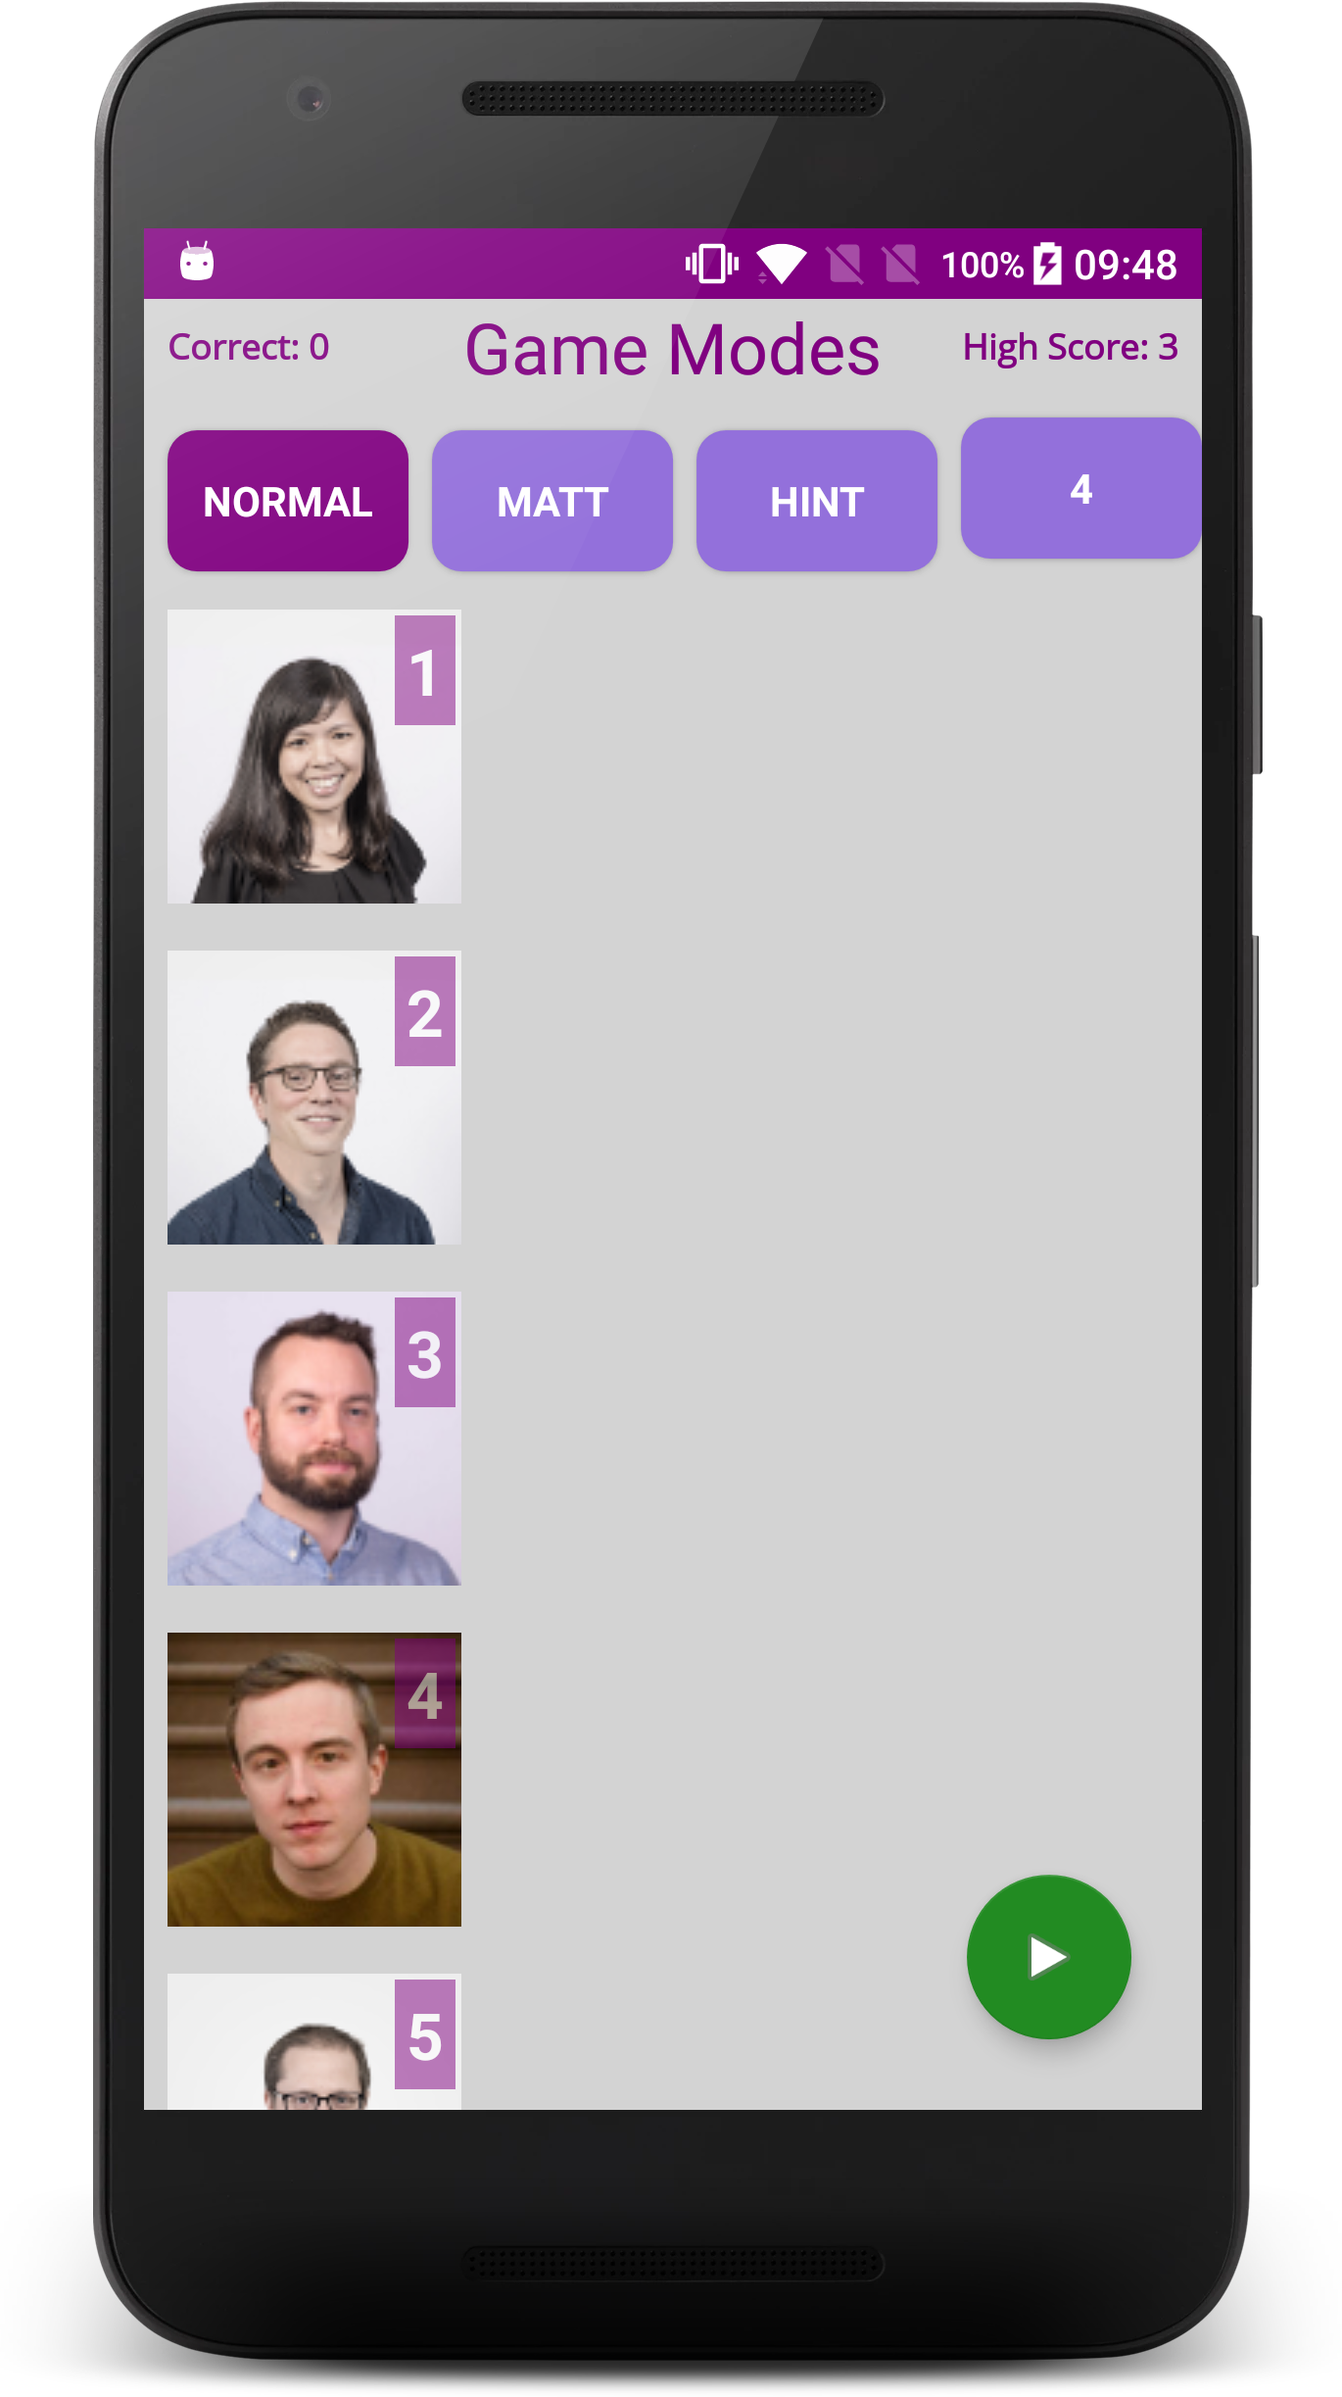
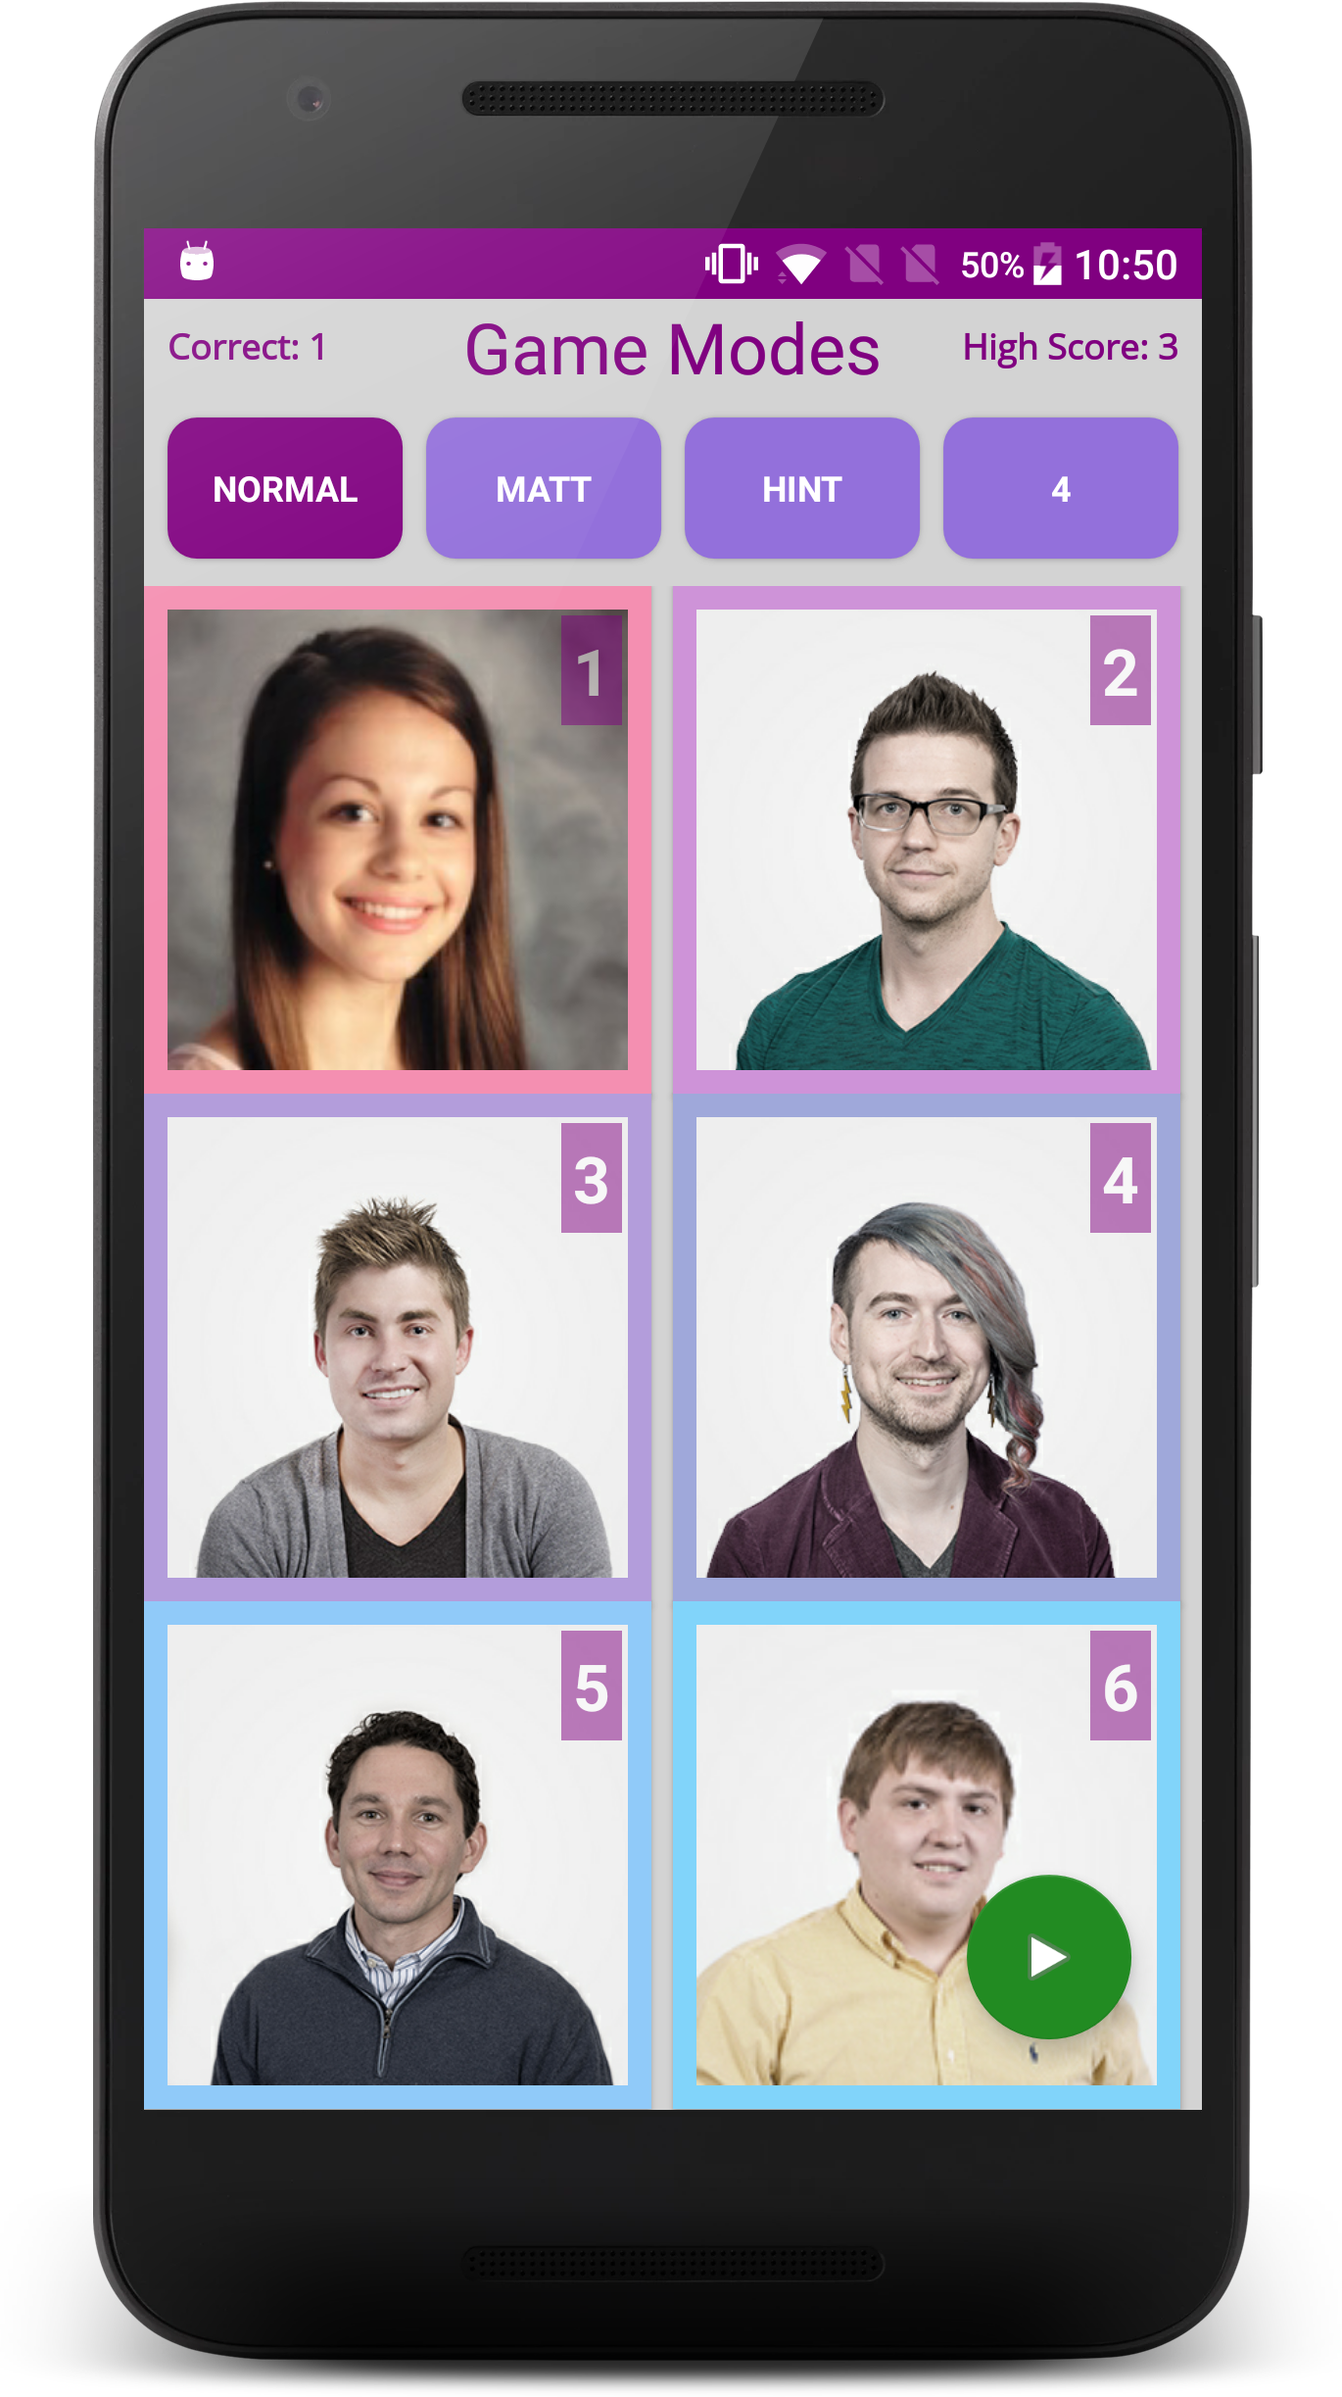
MyNameGame - Added screen orientation change, fixed spancount for RecyclerView, updated readme and pics

diff --git a/app/src/main/java/wt/cr/com/mynamegame/infrastructure/ui/home/HomeActivity.kt b/app/src/main/java/wt/cr/com/mynamegame/infrastructure/ui/home/HomeActivity.kt
@@ -1,25 +1,23 @@
 package wt.cr.com.mynamegame.infrastructure.ui.home
 
-import android.app.PendingIntent
-import android.app.TaskStackBuilder
 import android.arch.lifecycle.Observer
 import android.arch.lifecycle.ViewModelProviders
 import android.content.Context
 import android.content.Intent
 import android.databinding.DataBindingUtil
 import android.os.Bundle
-import android.support.v4.app.NotificationCompat
 import android.support.v7.widget.DefaultItemAnimator
-import android.support.v7.widget.LinearLayoutManager
+import android.support.v7.widget.GridLayoutManager
 import com.xwray.groupie.GroupAdapter
 import wt.cr.com.mynamegame.infrastructure.ui.BaseActivity.BaseActivity
 import com.xwray.groupie.Section
 import com.xwray.groupie.ViewHolder
 import kotlinx.android.synthetic.main.home_activity.*
+import timber.log.Timber
 import wt.cr.com.mynamegame.R
 import wt.cr.com.mynamegame.databinding.HomeActivityBinding
-import wt.cr.com.mynamegame.infrastructure.network.firestore.Firestore.Companion.addExampleUsers
 import wt.cr.com.mynamegame.infrastructure.ui.common.NoConnectionViewModel
+import wt.cr.com.mynamegame.infrastructure.ui.home.cards.UpdatableItem
 import wt.cr.com.mynamegame.infrastructure.ui.stats.StatsActivity
 
 class HomeActivity : BaseActivity(){
@@ -31,9 +29,13 @@ class HomeActivity : BaseActivity(){
     }
 
     private val personGroupAdapter = GroupAdapter<ViewHolder>()
-    private val peopleSection = Section()
+
+    private lateinit var groupLayoutManager: GridLayoutManager
+    private lateinit var rainbow200: IntArray
+    private var peopleSection  = Section()
+    private var updatingGroup    = Section()
+    private var updatableItems = ArrayList<UpdatableItem>()
     private var scoreSection = Section()
-    private var statSection = Section()
     private var errorSection = Section()
 
     private val homeActivityViewModel : HomeActivityViewModel by lazy {
@@ -47,9 +49,21 @@ class HomeActivity : BaseActivity(){
 
     override fun onCreate(savedInstanceState: Bundle?) {
         super.onCreate(savedInstanceState)
+        rainbow200 = resources.getIntArray(R.array.rainbow_200)
+
+
 
         DataBindingUtil.setContentView<HomeActivityBinding>(this, R.layout.home_activity).apply {
             activityViewModel = homeActivityViewModel
+
+        }
+
+        personGroupAdapter.apply {
+            spanCount = 6
+        }
+
+        groupLayoutManager = GridLayoutManager(this, personGroupAdapter.spanCount).apply {
+            spanSizeLookup = personGroupAdapter.spanSizeLookup
         }
 
         homeActivityViewModel.normalErrorAction.observe(this){it ->
@@ -58,8 +72,27 @@ class HomeActivity : BaseActivity(){
 
         homeActivityViewModel.loadPeopleAction.observe(this, Observer {
             personGroupAdapter.clear()
+
+            val width = this.resources.displayMetrics.widthPixels
+            val height = this.resources.displayMetrics.heightPixels
+
+            val rv_height = rv_multi_item.layoutParams.height
+            val rv_width = rv_multi_item.layoutParams.width
+
+            Timber.d("${rv_height} and ${rv_width} ")
+
+
+            peopleSection = Section()
+            updatingGroup = Section()
+            updatableItems.clear()
+            var i = 1
+            it?.forEach {pvm ->
+                updatableItems.add(UpdatableItem(rainbow200[i], i, pvm.url.get()?:""))
+                i++
+            }
+            updatingGroup.update(updatableItems)
+            peopleSection.add(updatingGroup)
             personGroupAdapter.add(peopleSection)
-            it?.let{ personViewModels -> peopleSection.update(personViewModels) }
         })
 
         homeActivityViewModel.loadScoreAction.observe(this, Observer {
@@ -80,12 +113,14 @@ class HomeActivity : BaseActivity(){
             startActivity(StatsActivity.newIntent(this))
         }
         setupAdapter()
+
+
     }
 
     private fun setupAdapter(){
-        rv_multi_item.layoutManager = LinearLayoutManager(this@HomeActivity)
+        rv_multi_item.layoutManager = groupLayoutManager
         rv_multi_item.itemAnimator = DefaultItemAnimator()
         rv_multi_item.adapter = personGroupAdapter
-        personGroupAdapter.add(peopleSection)
+        //personGroupAdapter.add(peopleSection)
     }
 }

diff --git a/app/src/main/java/wt/cr/com/mynamegame/infrastructure/ui/home/HomeActivityViewModel.kt b/app/src/main/java/wt/cr/com/mynamegame/infrastructure/ui/home/HomeActivityViewModel.kt
@@ -50,7 +50,6 @@ class HomeActivityViewModel(app: Application) : AndroidViewModel(app) {
     val lifetimeIncorrect      = MutableLiveData<Int>()
     val hasUserGuessed         = MutableLiveData<Boolean>()
     var peopleViewModelList:      MutableList<PersonViewModel> = mutableListOf()
-    var peopleViewModelListFresh: MutableList<PersonViewModel> = mutableListOf()
 
     private var profiles: MutableList<MyModel.Person> = mutableListOf()
     //Observables
@@ -116,8 +115,8 @@ class HomeActivityViewModel(app: Application) : AndroidViewModel(app) {
     }
 
     fun onBottomBarClick(index: Int){
-        val userId = peopleViewModelListFresh[index].id.get()
-        val mViewModel = peopleViewModelList.first{ it.id.get() == userId }
+        val mViewModel = peopleViewModelList[index]
+        //val mViewModel = peopleViewModelList.first{ it.id.get() == userId }
         onImageClick(mViewModel)
     }
 
@@ -253,8 +252,7 @@ class HomeActivityViewModel(app: Application) : AndroidViewModel(app) {
         if(peopleViewModelList.size < 2){
             resetGame()
         }else{
-            var index = peopleViewModelListFresh.indexOf(person)
-            showHideBottomButtons(index)
+            showHideBottomButtons(peopleViewModelList.size - 1)
             peopleViewModelList.remove(person)
             loadPeopleAction.postValue(peopleViewModelList)
         }
@@ -321,7 +319,6 @@ class HomeActivityViewModel(app: Application) : AndroidViewModel(app) {
                 .take(6)
                 .map { PersonViewModel("${i++}", it, this::onImageClick) }
                 .toList())
-        setFresh()
         setQuestionText()
         loadPeopleAction.postValue(peopleViewModelList)
     }
@@ -340,21 +337,16 @@ class HomeActivityViewModel(app: Application) : AndroidViewModel(app) {
                 .map {PersonViewModel("${i++}", it, this::onImageClick)}
                 .take(6)
                 .toList())
-        setFresh()
         setQuestionText()
         loadPeopleAction.postValue(peopleViewModelList)
     }
 
     fun hintMode(){
         selectedGameMode.set(CurrentGameMode.HINT)
-        setFresh()
-        launch(UI) {
-        }
     }
 
     fun fourMode(){
         selectedGameMode.set(CurrentGameMode.CUSTOM)
-        setFresh()
     }
 
     private fun errorMode(error: String){
@@ -363,10 +355,6 @@ class HomeActivityViewModel(app: Application) : AndroidViewModel(app) {
         apiErrorAction.actionOccurred(error)
     }
 
-    private fun setFresh(){
-        peopleViewModelListFresh.clear()
-        peopleViewModelListFresh.addAll(peopleViewModelList)
-    }
     /**
      * GAME MODES
      */

diff --git a/app/src/main/java/wt/cr/com/mynamegame/infrastructure/ui/home/cards/CardItem.kt b/app/src/main/java/wt/cr/com/mynamegame/infrastructure/ui/home/cards/CardItem.kt
@@ -1,0 +1,42 @@
+package wt.cr.com.mynamegame.infrastructure.ui.home.cards
+
+import android.support.annotation.ColorInt
+import com.squareup.picasso.Picasso
+
+import com.xwray.groupie.kotlinandroidextensions.Item
+import com.xwray.groupie.kotlinandroidextensions.ViewHolder
+import kotlinx.android.synthetic.main.item_card.*
+
+import wt.cr.com.mynamegame.R
+import wt.cr.com.mynamegame.databinding.ItemCardBinding
+import wt.cr.com.mynamegame.infrastructure.di.WTServiceLocator
+
+val INSET_TYPE_KEY = "inset_type"
+val INSET = "inset"
+open class CardItem (@ColorInt private val colorRes: Int,
+                     val text: CharSequence? = "",
+                     val url: String? = "") : Item() {
+    init {
+        extras[INSET_TYPE_KEY] = INSET
+    }
+
+    override fun getLayout() = R.layout.item_card
+
+    override fun bind(viewHolder: ViewHolder, position: Int) {
+        viewHolder.root.setBackgroundColor(colorRes)
+
+        viewHolder.layout_one_item.minWidth = 480
+        viewHolder.layout_one_item.minHeight = 480
+
+        viewHolder.text.text = text
+        viewHolder.tv_number.text = text
+
+        WTServiceLocator.resolve(Picasso::class.java)
+                .load(url)
+                .error(R.drawable.baseline_error_black_48)
+                .placeholder(R.drawable.progress_animation)
+                .resize(470,470)
+                .centerCrop()
+                .into(viewHolder.iv_person)
+    }
+}

diff --git a/app/src/main/java/wt/cr/com/mynamegame/infrastructure/ui/home/PersonViewModel.kt b/app/src/main/java/wt/cr/com/mynamegame/infrastructure/ui/home/PersonViewModel.kt
@@ -7,7 +7,7 @@ import com.xwray.groupie.databinding.BindableItem
 import wt.cr.com.mynamegame.domain.model.MyModel
 import wt.cr.com.mynamegame.infrastructure.ui.BaseBindableViewModel
 
-class PersonViewModel(private val numerino: String, private val person: MyModel.Person, val personClickListener: (PersonViewModel) -> Unit): BaseBindableViewModel(){
+class PersonViewModel(numerino: String, person: MyModel.Person, val personClickListener: (PersonViewModel) -> Unit): BaseBindableViewModel(){
     //observables
     val number = ObservableField<String>(numerino)
     val id = ObservableField<String>(person.id)
@@ -19,6 +19,10 @@ class PersonViewModel(private val numerino: String, private val person: MyModel.
 
     override fun getItemFactory(): (BaseBindableViewModel) -> BindableItem<ViewDataBinding> {
         return { it -> PersonItem((it as PersonViewModel)) }
+    }
+
+    override fun getSpanSize(spanCount: Int, position: Int): Int {
+        return spanCount / 3
     }
 
     fun onClick() {

diff --git a/app/src/main/java/wt/cr/com/mynamegame/infrastructure/network/firestore/Firestore.kt b/app/src/main/java/wt/cr/com/mynamegame/infrastructure/network/firestore/Firestore.kt
@@ -18,14 +18,14 @@ class Firestore {
         }
 
         fun addExampleUsers(){
-            val player = MyModel.Player("Curry", "Amsterdam, NVM", 2, "Charlie Brown")
+            val player = MyModel.Player("Curry", "Zamsterdam", 2, "MyNameGame can be huge")
             val user = createUser(player)
             addAPlayer(player)
             val player2 = MyModel.Player("Norman", "BRUNO MARS",1, "The Fighter and the kid")
             val user2 = createUser(player2)
             addAPlayer(player2)
 
-            val player3 = MyModel.Player("Johnny Walker", "123 12th street",3, "Morning Rituals")
+            val player3 = MyModel.Player("Johnny Walker", "123 12th street",3, "Read, study, learn")
             val user4 = createUser(player2)
             addAPlayer(player2)
         }

diff --git a/app/src/main/java/wt/cr/com/mynamegame/infrastructure/ui/home/cards/SmallCardItem.kt b/app/src/main/java/wt/cr/com/mynamegame/infrastructure/ui/home/cards/SmallCardItem.kt
@@ -1,0 +1,14 @@
+package wt.cr.com.mynamegame.infrastructure.ui.home.cards
+
+import android.support.annotation.ColorInt
+
+open class SmallCardItem : CardItem {
+
+    constructor(@ColorInt colorRes: Int) : super(colorRes) {}
+
+    constructor(@ColorInt colorRes: Int, text: CharSequence, url: String) : super(colorRes, text, url) {}
+
+    override fun getSpanSize(spanCount: Int, position: Int): Int {
+        return spanCount / 2
+    }
+}

diff --git a/app/src/main/java/wt/cr/com/mynamegame/infrastructure/ui/home/cards/UpdatableItem.kt b/app/src/main/java/wt/cr/com/mynamegame/infrastructure/ui/home/cards/UpdatableItem.kt
@@ -1,0 +1,12 @@
+package wt.cr.com.mynamegame.infrastructure.ui.home.cards
+
+import android.support.annotation.ColorRes
+
+class UpdatableItem(@ColorRes colorRes: Int,
+                    private val index: Int,
+                    private val theUrl: String) : SmallCardItem(colorRes, index.toString(), theUrl) {
+
+    override fun getId(): Long {
+        return index.toLong()
+    }
+}

diff --git a/app/src/main/java/wt/cr/com/mynamegame/infrastructure/ui/BaseBindableViewModel.kt b/app/src/main/java/wt/cr/com/mynamegame/infrastructure/ui/BaseBindableViewModel.kt
@@ -26,6 +26,10 @@ abstract class BaseBindableViewModel : Group {
         }
     }
 
+    open fun getSpanSize(spanCount: Int, position: Int): Int {
+        return spanCount / 3
+    }
+
     override fun getItemCount(): Int {
         return delegateItem.itemCount
     }

diff --git a/README.md b/README.md
@@ -1,9 +1,24 @@
 # MyNameGame
 
-The original mission was written in Java and didn't use databinding so for this interview project I decided to start from scratch and use Kotlin and the Android Support Library with MVVM architecture.
+This is my version of the name game. The original template was written in Java and was over two years old.
 
-## Your mission
+![](screencast.gif)
 
+## Outside Perspective
+1. Turn on the game and press start (Green arrow)
+2. Make a guess who you think matches the name at the bottom
+3. Change modes at the top
+4. View worldwide stats by clicking "VIEW HIGH SCORES" after successfully guessing someone
+5. Insert your stats into the worldwide database 
+
+## Inside Perspective
+1. Uses Retrofit to call endpoint that returns JSON and it's formatted into POKOs (plain old kotlin objects)
+2. Place six random people on the board using Groupie and RecyclerView
+3. Listen for event clicks on the images or bottom group of buttons
+4. Keep track of user's score via shared preferences
+5. Keep track of worldwide scores via Firestore and allow users to opt-in
+
+## Your mission //START// (criteria given)
 Present the user with six faces and ask them to identify the listed name. To spruce things up, implement a few features of your choice.
 
 1. Stat tracking. How many correct / incorrect attempts did the user make? How long does it take on average for a person to identify the subject?
@@ -14,7 +29,9 @@ Present the user with six faces and ask them to identify the listed name. To spr
 4. Hint mode. As people wait, faces disappear until only the correct one is left.
 5. Insert your own idea here!
 
-Uses/features/stuff:
+## Your mission //END//
+
+## The inside stuff:
 1. Kotlin
 2. MVVM / databinding
 3. Groupie RecyclerView adapter
@@ -24,12 +41,13 @@ Uses/features/stuff:
 7. ObjectAnimator
 8. AndroidSpinKit
 9. SharedPreferences
-10. ...
+10. Firestore for worldwide stats
 
-Upcoming:
-1. Local database
-2. Firebase integration
-3. ...
+## Android Stuff:
+1. Gradle 3.2.1
+2. Kotlin 1.2.71
+3. Gradle Dist 4.10.2-all
+4. Three activities (Splash, Home, Stats)
 
 Original Question: https://github.com/willowtreeapps/namegame_android
 
@@ -41,3 +59,6 @@ Original Question: https://github.com/willowtreeapps/namegame_android
 
 ### View3
 ![Question](https://github.com/SeaRoth/MyNameGame/blob/master/3.png?raw=true)
+
+### View4
+![Question](https://github.com/SeaRoth/MyNameGame/blob/master/4.png?raw=true)
